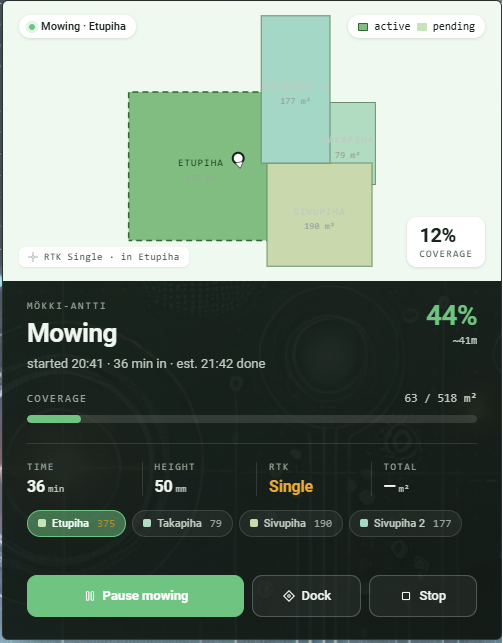
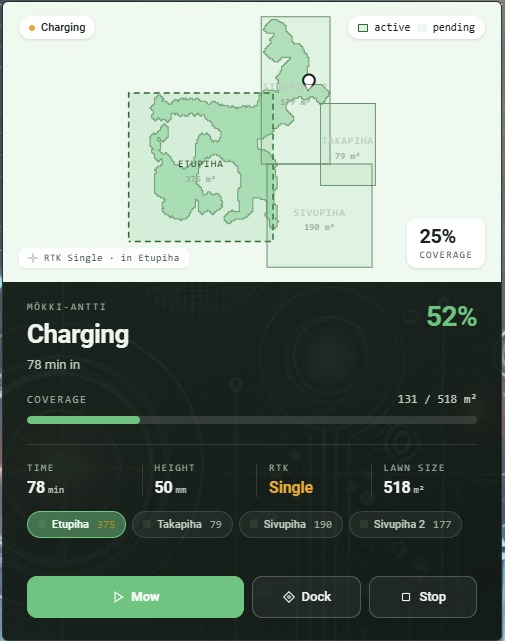
docs: add screenshot gallery (map, mowing, rain delay)

diff --git a/README.md b/README.md
@@ -8,7 +8,15 @@ glows the zone currently being mowed, shows honest coverage
 (`mowing_area / map_area`), battery, RTK state and session stats, and exposes
 Pause / Resume / Dock / Stop / per-zone-start controls.
 
-![Anthbot Genie Card — dark "glass" card-mod theme](docs/preview.png)
+<table>
+  <tr>
+    <td align="center"><img src="docs/preview.png" width="250" alt="Yard map, zones and controls"><br><sub>Yard map, zones &amp; controls</sub></td>
+    <td align="center"><img src="docs/preview2.png" width="250" alt="Mowing with active zones and coverage"><br><sub>Mowing — active zones &amp; coverage</sub></td>
+    <td align="center"><img src="docs/preview3.png" width="250" alt="Rain delay overlay"><br><sub>Rain delay overlay</sub></td>
+  </tr>
+</table>
+
+<sub>Shown with the dark "glass" card-mod theme from the [Theming](#theming) section.</sub>
 
 > **Requires the [`anthbot_genie_ha`](https://github.com/vincentjanv/anthbot_genie_ha)
 > integration by [@vincentjanv](https://github.com/vincentjanv).** Install and